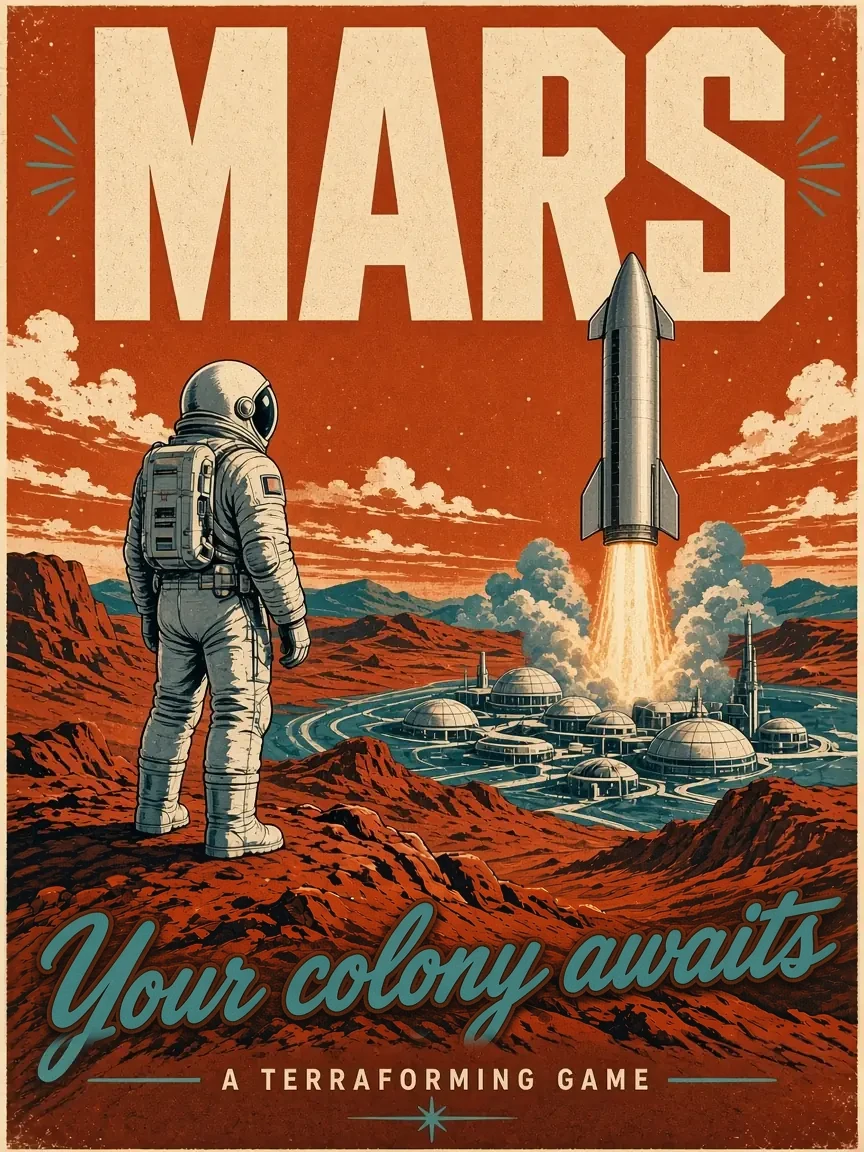
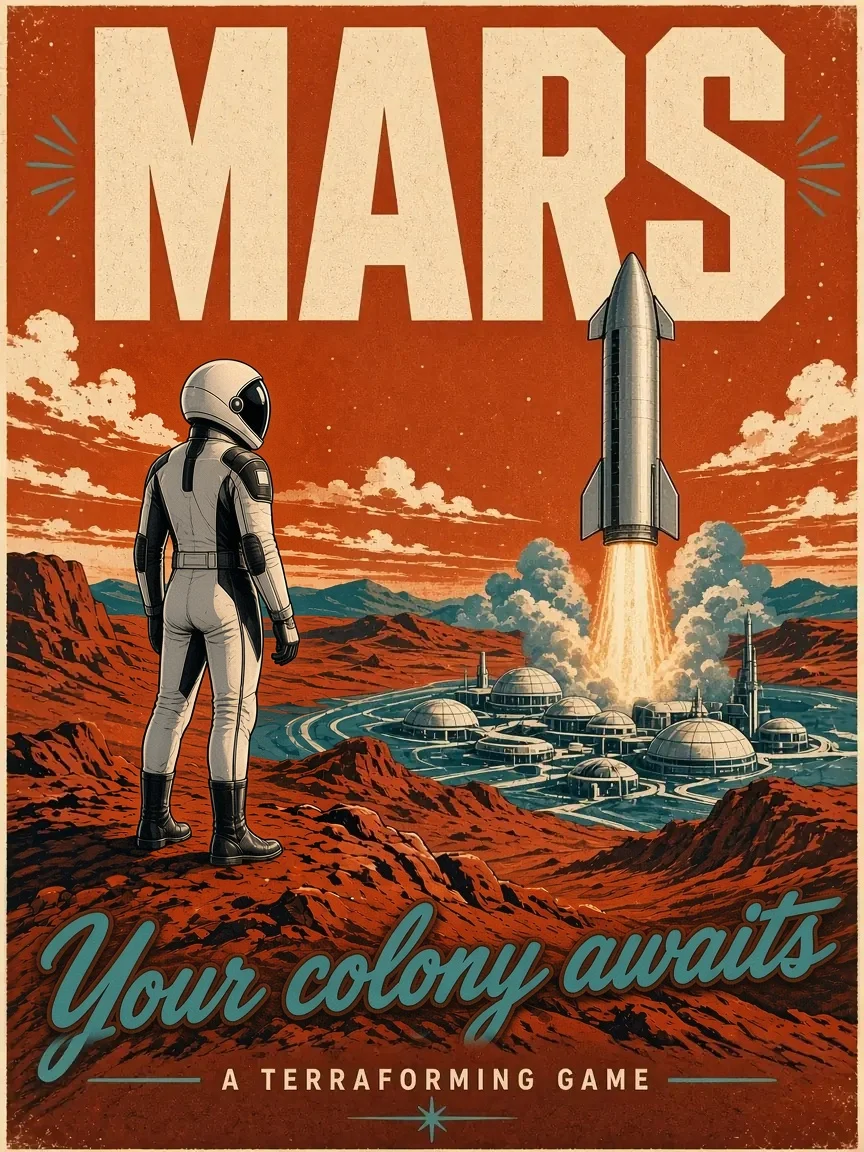
v71b: Starman figure on the title poster (figure-only composite)

Changed region(s): [[0.0938, 0.3125, 0.375, 0.7812], [0.3438, 0.625, 0.375, 0.6562], [0.125, 0.3438, 0.1562, 0.375]]

diff --git a/sw.js b/sw.js
@@ -1,5 +1,5 @@
 // MARS service worker — offline play. Bump VERSION on every release.
-const VERSION='mars-v71';
+const VERSION='mars-v71b';
 const CORE=['./','index.html','game.js','icons.js','poster.webp','manifest.webmanifest','icons/icon-180.png','icons/icon-192.png','icons/icon-512.png','icons/maskable-512.png','icons/favicon-32.png'];
 const CDN=['https://unpkg.com/three@0.160.0/build/three.module.js','https://unpkg.com/three@0.160.0/examples/jsm/environments/RoomEnvironment.js','https://unpkg.com/three@0.160.0/examples/jsm/geometries/RoundedBoxGeometry.js'];
 self.addEventListener('install',e=>{e.waitUntil(caches.open(VERSION).then(async c=>{await c.addAll(CORE);await Promise.all(CDN.map(u=>c.add(new Request(u,{mode:'cors'})).catch(()=>{})));}));});
